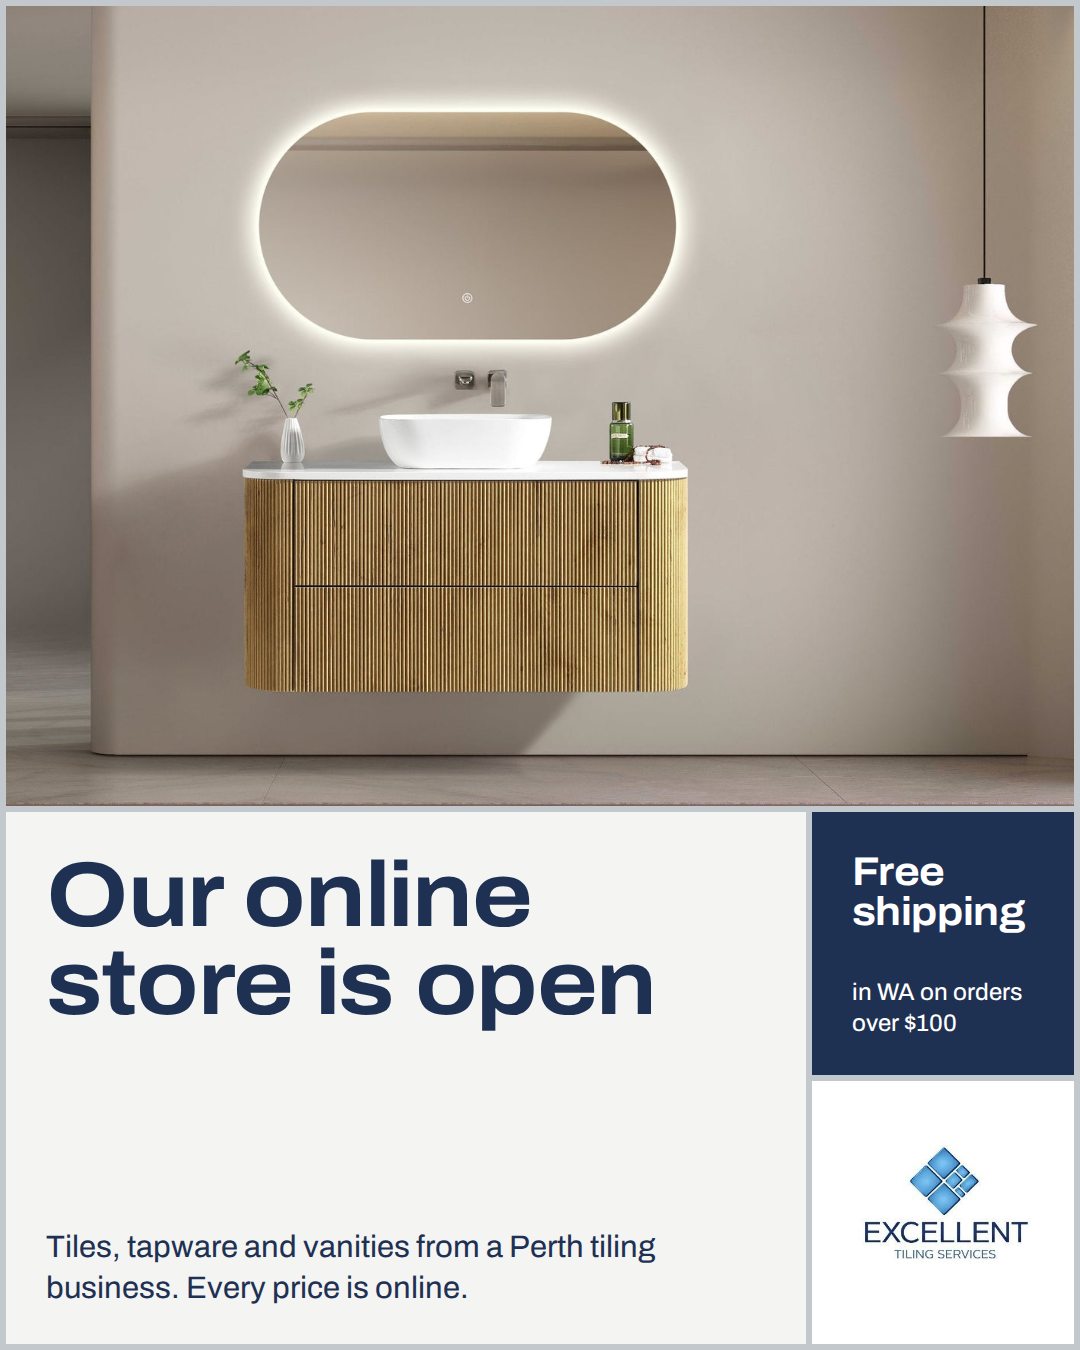
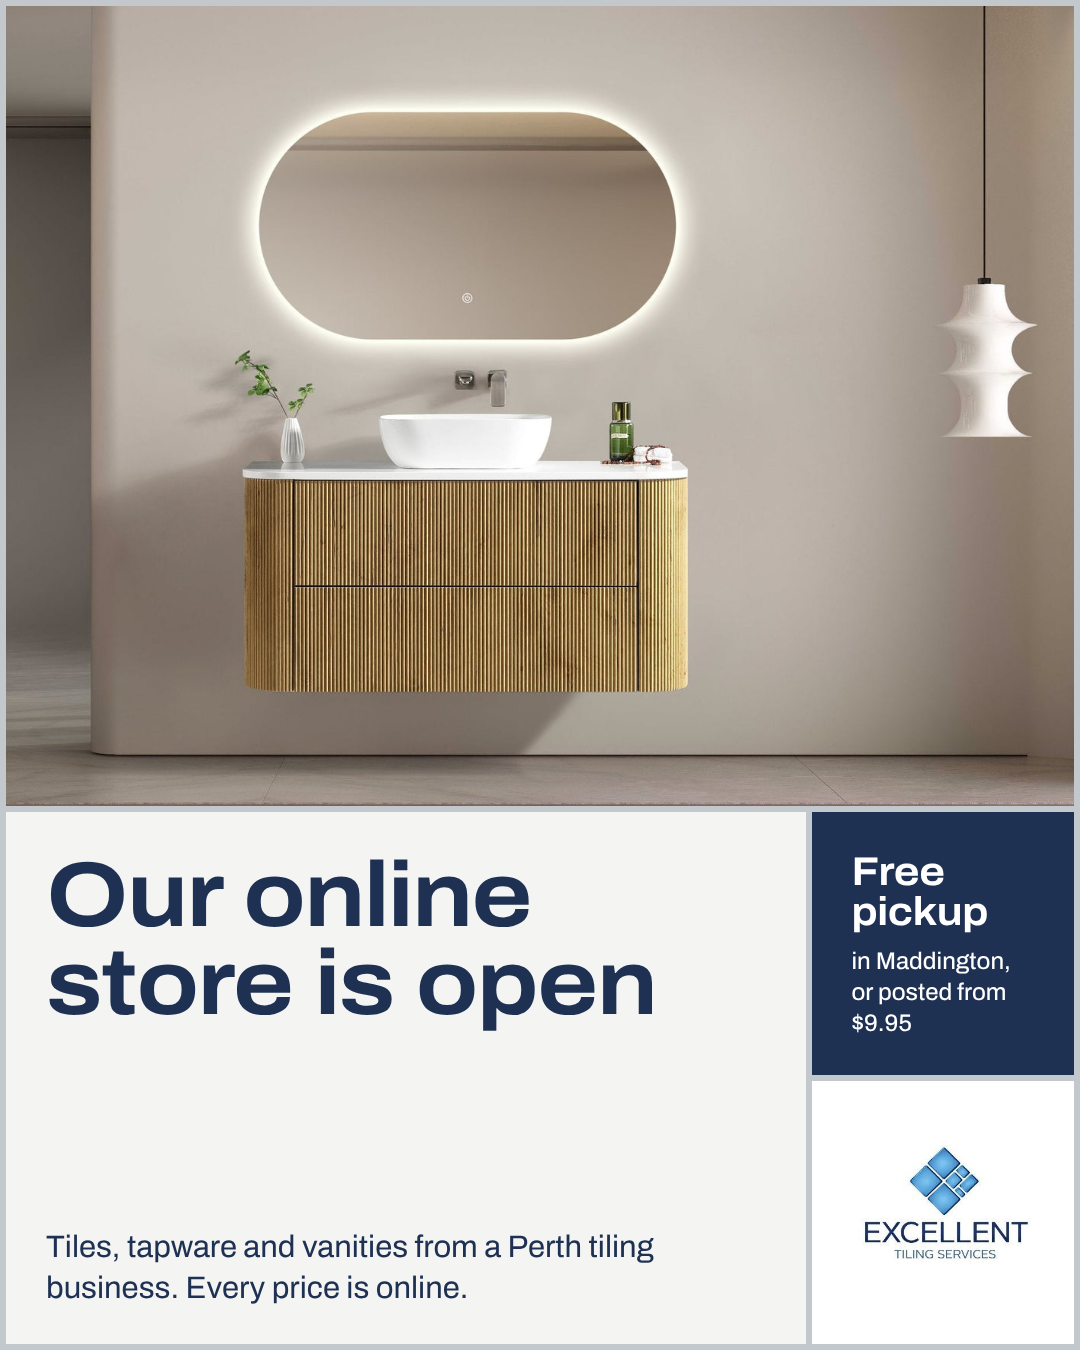
Campaign graphics and schedule: drop free shipping claims
Claude-Session: https://claude.ai/code/session_01GRgR2DghA2Z2M3V3XBcjTy

diff --git a/marketing/finish-it-right/schedule/build_schedule.py b/marketing/finish-it-right/schedule/build_schedule.py
@@ -11,39 +11,39 @@ TAGS='#perthrenovation #perthbathrooms #bathroomrenovation #perthtiler #perthhom
 LINK='Shop at excellenttilingservice.com.au (link in bio).'
 LAUNCH=['A2-1-cover','A2-2-flova','A2-3-vanities','A2-4-tiles','A2-5-delivery']
 M=[ # date, graphics, caption (no link/tags; added below). None graphics = owner posts by hand
-('2026-10-06',LAUNCH,"Our online store is open. Tiles, tapware and vanities from a Perth tiling business, with every price on the website.\nSwipe for our favourites: MELA FLOVA basin mixer from $189, wall-hung vanities from $1,139 and porcelain tiles from $37.40/m².\nFree shipping in WA on orders over $100, Perth delivery, or free pickup from Maddington."),
+('2026-10-06',LAUNCH,"Our online store is open. Tiles, tapware and vanities from a Perth tiling business, with every price on the website.\nSwipe for our favourites: MELA FLOVA basin mixer from $189, wall-hung vanities from $1,139 and porcelain tiles from $37.40/m².\nTapware posted Australia-wide from $9.95, Perth delivery, or free pickup from Maddington."),
 ('2026-10-07',['D3-pickup'],"Order online, pick up free. Choose local pickup at checkout, we'll message you when it's ready, then book a time Monday to Saturday, 4:30 to 9 pm. 17A Olga Road, Maddington. Bring a ute for tiles and vanities."),
-('2026-10-08',['A2-5-delivery'],"Three ways to get your order home: free shipping on tapware and accessories over $100 anywhere in WA, Perth delivery for tiles, vanities and baths, or free pickup from our Maddington showroom."),
+('2026-10-08',['A2-5-delivery'],"Three ways to get your order home: tapware and accessories posted Australia-wide from $9.95, Perth delivery for tiles, vanities and baths, or free pickup from our Maddington showroom."),
 ('2026-10-09',['D2-trade'],"Tiler, builder or plumber? A free ETS trade account takes 5–25% off tapware, vanities, tools and trims, and 15% off all tiles. The discount comes off automatically when you log in. No codes.\nApply in two minutes on our website."),
 ('2026-10-10',['C2-tile-looks'],"Four quiet floors from our porcelain range: Terrazzo White, Cement Grey, Particle Warm and Lava Ash. Save this for your reno board.\nOrder online for Perth delivery, or book an evening showroom visit to see them in person."),
-('2026-10-11',['B3-prices'],"Every price is on our website. No \"call for price\", no waiting on a quote for a mixer. Tiles, tapware, vanities and tools, all buyable tonight.\nFree shipping in WA on orders over $100. Perth delivery or free pickup for tiles and vanities."),
+('2026-10-11',['B3-prices'],"Every price is on our website. No \"call for price\", no waiting on a quote for a mixer. Tiles, tapware, vanities and tools, all buyable tonight.\nTapware posted Australia-wide from $9.95. Perth delivery or free pickup for tiles and vanities."),
 ('2026-10-12',['A2-3-vanities'],"Wall-hung vanities from $1,139. Shown: the MELA CLARK 900 in walnut, with stone top and basin included.\nDelivered across Perth, or pick up free from our Maddington showroom."),
 ('2026-10-13',['C3-showroom'],"Work all day? So do we. Our Maddington showroom opens by appointment Monday to Saturday, 4:30 to 9 pm. Bring your plans and measurements and we'll help you work out quantities.\nBook a time online, or call 0450 960 543."),
-('2026-10-14',['B2-refresh'],"Not ready for a full reno? Swap four things and the bathroom feels new:\nFLOVA basin mixer $189\nFLOVA hand shower $151\nFLOVA 600 towel rail $94\nFLOVA roll holder $46\n$480 in matching chrome, and it ships free anywhere in WA."),
+('2026-10-14',['B2-refresh'],"Not ready for a full reno? Swap four things and the bathroom feels new:\nFLOVA basin mixer $189\nFLOVA hand shower $151\nFLOVA 600 towel rail $94\nFLOVA roll holder $46\n$480 in matching chrome, posted Australia-wide from $9.95."),
 ('2026-10-15',['A3-idea'],"Bathroom idea: warm oak against a plain wall. The MELA BRITTANY 1200 fluted, curved vanity does the work, so keep the tiles quiet and the tapware simple.\n$1,994, delivered across Perth or picked up free from Maddington. Which would you change first: vanity, tiles or tapware?"),
 ('2026-10-16',None,"REEL by hand: FLOVA unboxing (see calendar)"),
 ('2026-10-17',['C2-tile-looks'],"Four quiet floors: Terrazzo White, Cement Grey, Particle Warm and Lava Ash. Which one goes in your bathroom?\nEvery price is online. Perth delivery or free pickup from Maddington."),
-('2026-10-18',['B3-prices'],"Sick of \"call for price\"? Every tile, tap and vanity we sell has its price on the website. Check it tonight, order tonight. Free shipping in WA on orders over $100."),
-('2026-10-19',['A2-2-flova'],"The MELA FLOVA basin mixer: $189 in chrome, $217 in matt black. 5-star WELS rating, so it saves water without feeling weak. Free shipping anywhere in WA on orders over $100."),
+('2026-10-18',['B3-prices'],"Sick of \"call for price\"? Every tile, tap and vanity we sell has its price on the website. Check it tonight, order tonight. Tapware posted Australia-wide from $9.95."),
+('2026-10-19',['A2-2-flova'],"The MELA FLOVA basin mixer: $189 in chrome, $217 in matt black. 5-star WELS rating, so it saves water without feeling weak. Posted Australia-wide from $9.95."),
 ('2026-10-20',['D2-trade'],"Tradies: a free ETS trade account takes 15% off tiles and 5–25% off tapware, vanities, tools and trims. It comes off automatically when you're logged in. No codes. Apply on our website."),
 ('2026-10-21',None,"REEL by hand: vanity install (see calendar)"),
 ('2026-10-22',['A2-4-tiles'],"Porcelain tiles from $37.40/m². Lava Etna, Morgan Hail, Time Stone Moon and more, sold by the full box with every price online.\nPerth delivery or free pickup from Maddington. Not sure how many boxes? Send us your room size and we'll work it out."),
 ('2026-10-23',['A2-3-vanities'],"Floating vanities make small bathrooms look bigger and you can mop right under them. Ours start at $1,139 with stone top and basin included.\nDelivered across Perth, or pick up free from Maddington."),
 ('2026-10-24',['https://cdn.shopify.com/s/files/1/0683/0292/9983/files/mela-suri-700-frameless-mirror.jpg?v=1790229068','https://cdn.shopify.com/s/files/1/0683/0292/9983/files/mela-suri-700-round-mirror-black-frame-7390542.jpg?v=1790401809','https://cdn.shopify.com/s/files/1/0683/0292/9983/files/suri-900-led-round-mirror_799d0a53-d0d3-4672-bf67-63c47279c84d.jpg?v=1790223370','https://cdn.shopify.com/s/files/1/0683/0292/9983/files/mela-mia-450-frameless-oval-mirror.jpg?v=1790170457'],"Round or oval, framed or LED? A new mirror changes a bathroom faster than anything else.\nMELA SURI round: frameless from $189, framed from $236, LED from $349. MELA MIA oval frameless from $189.\nShipped Australia-wide by Australia Post, or pick up free from Maddington."),
-('2026-10-25',['A2-5-delivery'],"Three ways to get your order home: free shipping on tapware and accessories over $100 anywhere in WA, Perth delivery for tiles, vanities and baths, or free pickup from our Maddington showroom."),
+('2026-10-25',['A2-5-delivery'],"Three ways to get your order home: tapware and accessories posted Australia-wide from $9.95, Perth delivery for tiles, vanities and baths, or free pickup from our Maddington showroom."),
 ('2026-10-26',None,"REEL by hand: 3 tiling mistakes (see calendar)"),
 ('2026-10-27',None,"Customer review or job photo, by hand (see calendar)"),
-('2026-10-28',['B2-refresh'],"The easiest bathroom upgrade we sell: four FLOVA pieces in matching chrome for $480, delivered free anywhere in WA. No tradie needed for the towel rail and roll holder."),
+('2026-10-28',['B2-refresh'],"The easiest bathroom upgrade we sell: four FLOVA pieces in matching chrome for $480, posted Australia-wide from $9.95. No tradie needed for the towel rail and roll holder."),
 ('2026-10-29',['C2-tile-looks'],"Quiet floors make everything else in the room look better. Terrazzo White, Cement Grey, Particle Warm and Lava Ash, all porcelain, all priced online.\nPerth delivery or free pickup from Maddington."),
 ('2026-10-30',['C3-showroom'],"Planning a weekend reno? See the tiles and vanities in person first. Our Maddington showroom is open by appointment tonight and tomorrow, 4:30 to 9 pm. Book online or call 0450 960 543."),
 ('2026-10-31',['https://cdn.shopify.com/s/files/1/0683/0292/9983/files/DSAYFR600331_4.jpg?v=1790332958','https://cdn.shopify.com/s/files/1/0683/0292/9983/files/DSAYFR600331.jpg?v=1790334486','https://cdn.shopify.com/s/files/1/0683/0292/9983/files/DSAYFR600331_2.jpg?v=1790334487'],"Same tile, whole room. Time Stone Moon in 600x600 matt, P4/R11 slip rating so it works in wet areas too. Price per m² on the website, Perth delivery or free pickup."),
 ('2026-11-01',['D2-trade'],"Tradies: set up your free trade account before Monday's jobs. 15% off tiles and 5–25% off everything else, applied automatically when you're logged in. Apply on our website."),
-('2026-11-02',LAUNCH,"Missed it? Our full range is online with every price showing: basin mixers from $189, porcelain tiles from $37.40/m² and wall-hung vanities from $1,139. Free shipping in WA on orders over $100, or pick up free in Maddington."),
-('2026-11-03',['B3-prices'],"Every tile, tap and vanity we sell has its price on the website. No quotes, no waiting. Free shipping in WA on orders over $100."),
+('2026-11-02',LAUNCH,"Missed it? Our full range is online with every price showing: basin mixers from $189, porcelain tiles from $37.40/m² and wall-hung vanities from $1,139. Tapware posted Australia-wide from $9.95, or pick up free in Maddington."),
+('2026-11-03',['B3-prices'],"Every tile, tap and vanity we sell has its price on the website. No quotes, no waiting. Tapware posted Australia-wide from $9.95."),
 ('2026-11-04',['A3-idea'],"Still thinking about a vanity? The MELA BRITTANY 1200 in fluted oak is $1,994, delivered across Perth or picked up free from Maddington. Book an evening showroom visit to see the finish in person."),
-('2026-11-05',['A2-2-flova'],"Tapware and accessories ship free anywhere in WA once your order hits $100. Under that it's a $20 flat rate. Mixers, shower sets, towel rails, all priced online."),
+('2026-11-05',['A2-2-flova'],"Tapware and accessories go Australia-wide by tracked Australia Post from $9.95. Mixers, shower sets, towel rails, all priced online."),
 ('2026-11-06',['D3-pickup'],"Order online, pick up free. Choose local pickup at checkout, we'll message you when it's ready, then book a time Monday to Saturday, 4:30 to 9 pm. 17A Olga Road, Maddington."),
-('2026-11-07',['B2-refresh'],"Weekend job: four FLOVA pieces in matching chrome for $480, delivered free anywhere in WA. The towel rail and roll holder go up in an afternoon."),
+('2026-11-07',['B2-refresh'],"Weekend job: four FLOVA pieces in matching chrome for $480, posted Australia-wide from $9.95. The towel rail and roll holder go up in an afternoon."),
 ('2026-11-08',['A2-4-tiles'],"Porcelain tiles from $37.40/m², sold by the box with every price online. Lava Etna, Morgan Hail, Time Stone Moon and more. Perth delivery or free pickup from Maddington."),
 ]
 main=[]

diff --git a/marketing/finish-it-right/source/build.py b/marketing/finish-it-right/source/build.py
@@ -34,13 +34,13 @@ posts={
 'A2-1-cover':
  img('brittany2.jpg','1/5','1/4')+
  f'<div class="t" {a("1/4","4/6")}><h1>Our online store is open</h1><p class="bot">Tiles, tapware and vanities from a Perth tiling business. Every price is online.</p></div>'+
- f'<div class="t navy" {a("4/5","4/5")}><h2 style="font-size:40px">Free<br>shipping</h2><p class="small bot">in WA on orders over $100</p></div>'+
+ f'<div class="t navy" {a("4/5","4/5")}><h2 style="font-size:40px">Free<br>pickup</h2><p class="small bot">in Maddington, or posted from $9.95</p></div>'+
  LOGO('4/5','5/6'),
 'A2-2-flova':
  img('flova.png','1/5','1/4','fit')+
  f'<div class="t navy" {a("1/3","4/6")}><div class="big">$189</div><p class="bot">MELA FLOVA basin mixer in chrome. WELS 5 star.</p></div>'+
  img('flova-black.png','3/5','4/5','fit zoom','Also in matt<br>black, $217','dark top')+
- f'<div class="t blue" {a("3/5","5/6")}><p>Free shipping anywhere in WA on tapware orders over $100</p></div>',
+ f'<div class="t blue" {a("3/5","5/6")}><p>Posted Australia-wide from $9.95, or pick up free in Maddington</p></div>',
 'A2-3-vanities':
  img('clark-walnut.webp','1/5','1/4')+
  f'<div class="t" {a("1/4","4/6")}><h2>Wall-hung vanities</h2><p class="bot">Delivered across Perth, or pick up free from our Maddington showroom. Shown: MELA CLARK 900 in walnut.</p></div>'+
@@ -60,7 +60,7 @@ posts={
 }
 posts.update({
 'B2-refresh':
- f'<div class="t navy" {a("1/5","1/3")}><h1 style="font-size:104px">Bathroom refresh for $480</h1><p class="bot">Four swaps, one matching chrome finish, delivered free anywhere in WA.</p></div>'+
+ f'<div class="t navy" {a("1/5","1/3")}><h1 style="font-size:104px">Bathroom refresh for $480</h1><p class="bot">Four swaps in one matching chrome finish. Posted from $9.95.</p></div>'+
  img('flova.png','1/3','3/5','fit','Basin mixer $189','dark')+
  img('handshower.jpg','3/4','3/5','fit','Hand shower $151','dark')+
  img('towelrail.png','4/5','3/4','fit','Towel rail $94','dark')+
@@ -70,7 +70,7 @@ posts.update({
  f'<div class="t" {a("1/5","1/3")}><h1 style="font-size:112px">Every price is on the website</h1></div>'+
  f'<div class="t navy" {a("1/3","3/5")}><h2>No “call for price”</h2><p class="bot">Tiles, tapware, vanities and tools, all priced online, all buyable tonight.</p></div>'+
  img('flova-black.png','3/5','3/4','fit zoom','FLOVA basin mixer, matt black, $217','dark top')+
- f'<div class="t blue" {a("3/5","4/5")}><p>Free WA shipping on tapware over $100. Perth delivery for tiles and vanities.</p></div>'+
+ f'<div class="t blue" {a("3/5","4/5")}><p>Tapware posted from $9.95. Perth delivery for tiles and vanities.</p></div>'+
  f'<div class="t" {a("1/4","5/6")}><p>excellenttilingservice.com.au</p></div>'+LOGO('4/5','5/6'),
 'A3-idea':
  img('brittany2.jpg','1/5','1/4')+
@@ -89,7 +89,7 @@ posts.update({
  f'<div class="t blue" {a("1/4","5/6")}><h2 style="font-size:52px">Apply on our website in two minutes</h2></div>'+LOGO('4/5','5/6'),
 'R-B1-unboxing':
  img('flova.png','1/5','1/5','fit')+
- f'<div class="t navy" {a("1/5","5/8")}><h1 style="font-size:120px">Unboxing the FLOVA basin mixer</h1><p class="bot" style="font-size:40px">$189 in chrome. Free WA shipping over $100.</p></div>',
+ f'<div class="t navy" {a("1/5","5/8")}><h1 style="font-size:120px">Unboxing the FLOVA basin mixer</h1><p class="bot" style="font-size:40px">$189 in chrome. Posted Australia-wide from $9.95.</p></div>',
 'R-C1-vanity':
  img('clark-walnut.webp','1/5','1/5')+
  f'<div class="t navy" {a("1/5","5/8")}><h1 style="font-size:120px">Wall-hung vanity, start to finish</h1><p class="bot" style="font-size:40px">30 seconds. One install. Delivered across Perth.</p></div>',
@@ -115,7 +115,7 @@ posts.update({
 posts.update({
 'A2-5-delivery':
  f'<div class="t deep" {a("1/5","1/3")}><h1 style="font-size:112px">Three ways to get it home</h1></div>'+
- f'<div class="t" {a("1/3","3/5")}><h2 style="font-size:58px">Free shipping</h2><p class="bot">Tapware and accessories over $100, anywhere in WA.</p></div>'+
+ f'<div class="t" {a("1/3","3/5")}><h2 style="font-size:58px">Posted from $9.95</h2><p class="bot">Tapware and accessories, tracked Australia Post, anywhere in Australia.</p></div>'+
  f'<div class="t" {a("3/5","3/5")}><h2 style="font-size:58px">Perth delivery</h2><p class="bot">Tiles, vanities and baths, priced at checkout.</p></div>'+
  f'<div class="t blue" {a("1/4","5/6")}><h2 style="font-size:54px">Free pickup in Maddington</h2></div>'+LOGO('4/5','5/6'),
 'D3-pickup':
@@ -123,7 +123,7 @@ posts.update({
  f'<div class="t deep" {a("1/5","3/5")}><p>Order online</p><h1 style="font-size:150px;margin-top:24px">Pick up free</h1><h2 class="bot" style="font-size:58px">17A Olga Road, Maddington</h2></div>'+
  f'<div class="t" {a("1/4","5/6")}><p>We message you when it\'s ready. Book a pickup time, Monday to Saturday, 4:30 to 9 pm.</p></div>'+LOGO('4/5','5/6'),
 'S-shipping':
- f'<div class="t deep" {a("1/5","1/5")}><p style="font-size:40px">Tapware and accessories</p><h1 style="font-size:150px;margin-top:40px">Free shipping over $100</h1><p class="bot" style="font-size:44px">Anywhere in Western Australia</p></div>'+
+ f'<div class="t deep" {a("1/5","1/5")}><p style="font-size:40px">Tapware and accessories</p><h1 style="font-size:150px;margin-top:40px">Posted Australia-wide from $9.95</h1><p class="bot" style="font-size:44px">or pick up free in Maddington</p></div>'+
  img('flova.png','1/5','5/7','fit')+
  f'<div class="t blue" {a("1/4","7/8")}><h2 style="font-size:52px">Shop via the link in our bio</h2></div>'+LOGO('4/5','7/8'),
 })

diff --git a/marketing/finish-it-right/v2/source/build2.py b/marketing/finish-it-right/v2/source/build2.py
@@ -29,7 +29,7 @@ P={}
 P['N1-launch']=statement('brittany1200.jpg','Every price is online.','Tiles, tapware and vanities from a Perth tiling business. Order tonight, or see it first in our Maddington showroom.',pos='center 55%')
 P['N2-brittany600']=product('brittany600.jpg','MELA · Wall-hung vanity','Brittany 600 fluted, matt white','$1,149.99',pos='center 60%')
 P['N3-dusk']=product('dusk2.jpg','Porcelain tile · Matt','Morgan Dusk','$37.40/m²',pre='from',pos='center 70%')
-P['N4-shipping']=statement('dusk1.jpg','Free shipping over $1,000','Tapware ships Australia-wide, priced by weight at checkout. Tiles and vanities: Perth delivery or free pickup.',pos='center 60%')
+P['N4-shipping']=statement('dusk1.jpg','Posted Australia-wide from $9.95','Or pick up free in Maddington. Tapware goes by tracked Australia Post, priced by weight at checkout. Tiles and vanities: Perth delivery.',pos='center 60%')
 P['S-N2-brittany600']=product('brittany600.jpg','MELA · Wall-hung vanity','Brittany 600 fluted, matt white','$1,149.99',pos='center 55%',H=1920,strip=380)
 only=sys.argv[1:]
 for name,(W,H,body) in P.items():

diff --git a/marketing/finish-it-right/README.md b/marketing/finish-it-right/README.md
@@ -20,7 +20,7 @@ Ready-to-post graphics. Feed posts are 1080×1350 (Instagram/Facebook portrait);
 
 A YAMEN10 code (10% off, $150 minimum) was set up and then cancelled before launch: at 10% off, 349 of
 1,572 product options would have dropped below the 20% profit floor and 9 would have sold below cost.
-The campaign leads with free shipping in WA on orders over $100 (the rest of Australia pays Australia Post rates), every price online, Perth delivery, free
+The campaign leads with every price online, small items posted Australia-wide from $9.95 (free shipping ended 17 Oct 2026), Perth delivery, free
 pickup in Maddington and the evening showroom instead. Don't claim "cheaper than" competitors: 62 of 574
 MELA prices are above Bathroom City's.
 
